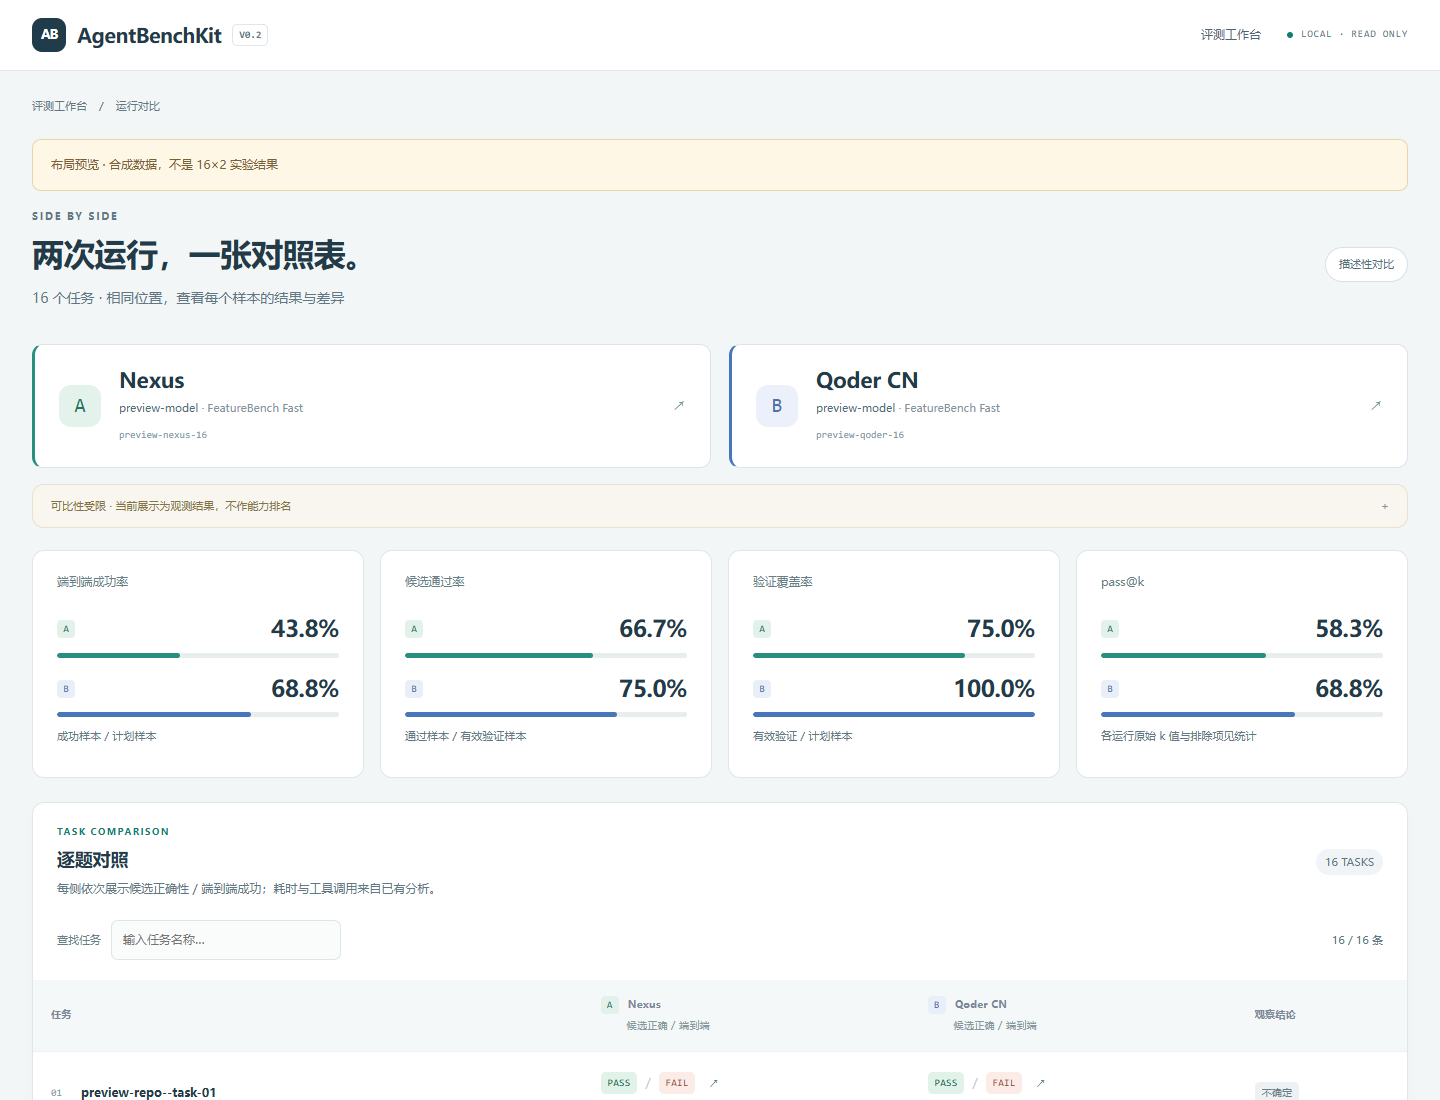
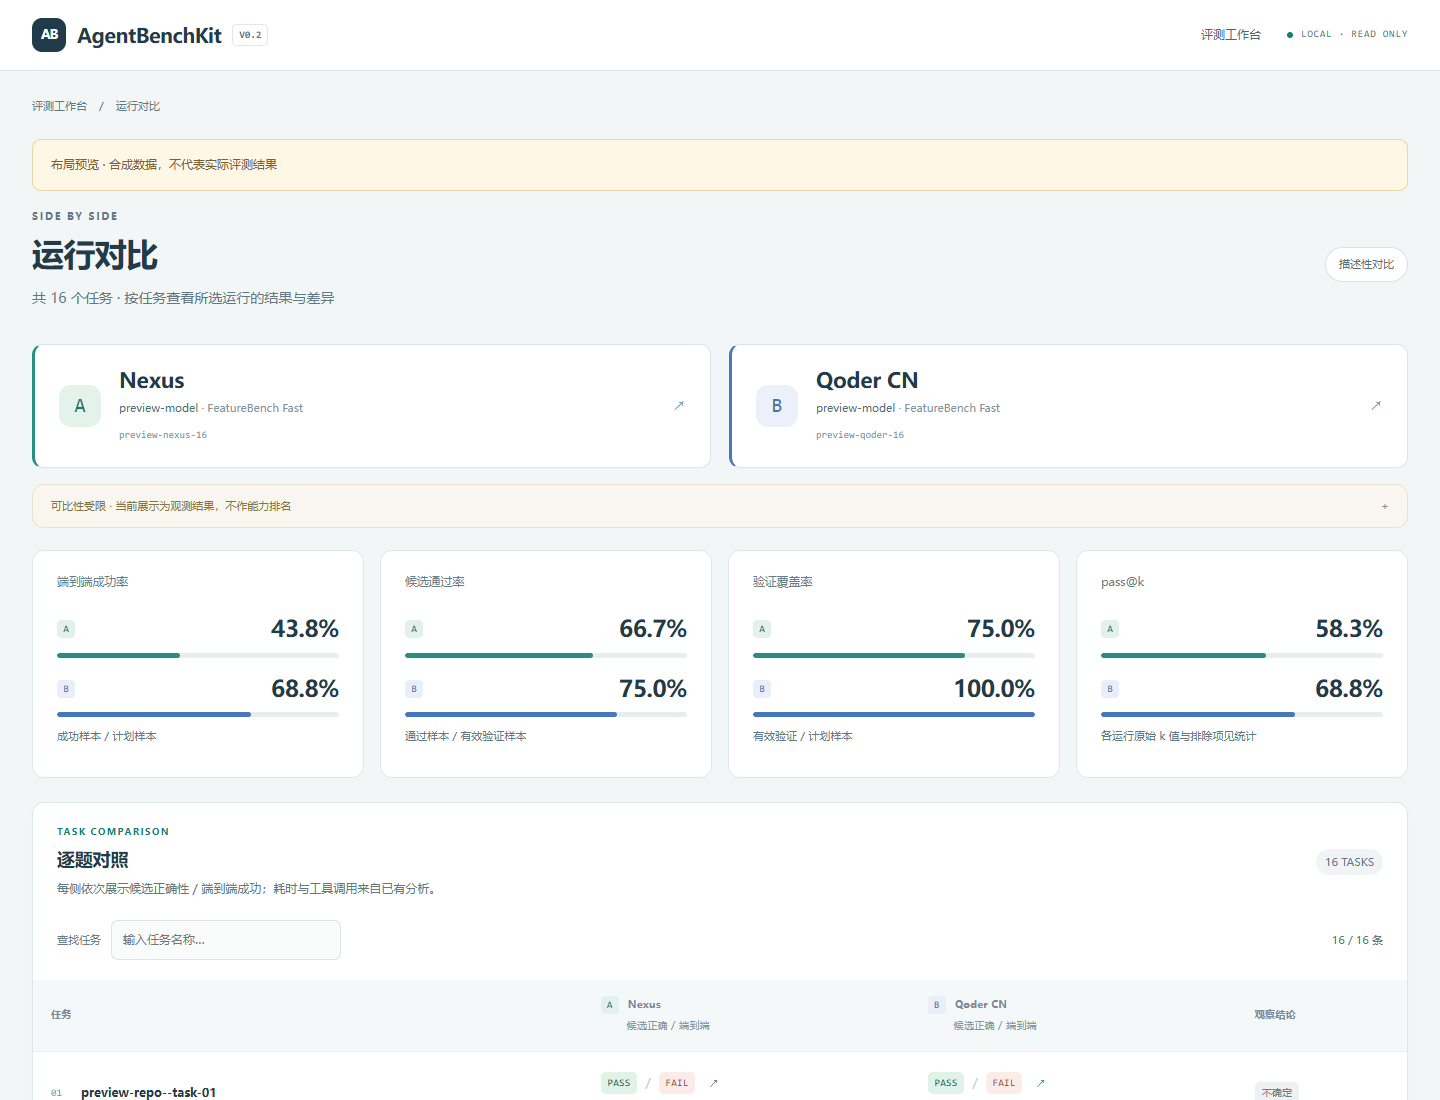
fix(viewer): clarify independent runs and optional comparison

Changed region(s): [[0.0, 0.2164, 0.25, 0.2782], [0.125, 0.1236, 0.1875, 0.1545]]

diff --git a/src/agentbenchkit/viewer/templates/runs.html b/src/agentbenchkit/viewer/templates/runs.html
@@ -2,6 +2,6 @@
 {% from "_components.html" import rate, benchmark %}
 {% block content %}
 <section class="heading workspace-hero"><div><p class="eyebrow">EVALUATION WORKSPACE</p><h1>评测工作台</h1><p>汇集每次运行，查看结果、比较 Agent、追溯执行证据。</p></div><div class="workspace-summary"><strong>{{ runs | length }}</strong>RECENT RUNS</div></section>
-<section class="panel" id="run-list"><div class="panel-heading"><div><p class="eyebrow">RUN LIBRARY</p><h2>最近运行</h2><p>进入任一运行，即可查看该次全部任务。最多展示最近 200 条记录。</p></div><button hx-get="/" hx-select="#run-list" hx-target="#run-list" hx-swap="outerHTML">刷新列表</button></div><div class="table-wrap"><table><thead><tr><th>Agent / Benchmark</th><th>运行 / 模型</th><th>端到端成功</th><th>验证覆盖</th><th></th></tr></thead><tbody>{% for run in runs %}<tr><td><a class="task-link" href="/runs/{{ run.id }}">{{ run.manifest.harness.name }}</a>{% if run.manifest.get('preview_notice') %}<span class="preview-tag">合成预览</span>{% endif %}<small>{{ benchmark(run.manifest.get('benchmark', 'micro_swe')) }} · {{ run.manifest.environment.provider }}</small></td><td><a href="/runs/{{ run.id }}">{{ run.id }}</a><small>{{ (run.manifest.get('model') or {}).get('model_id', '模型 N/A') }} · {{ run.manifest.created_at }}</small></td><td>{{ rate(run.summary.get('end_to_end_success_rate')) }}<small>{{ run.summary.get('samples_successful','N/A') }} / {{ run.summary.get('samples_planned','N/A') }} 样本</small></td><td>{{ rate(run.summary.get('coverage_rate')) }}<small>{{ run.summary.get('samples_with_valid_verdict','N/A') }} / {{ run.summary.get('samples_planned','N/A') }} 有效验证</small></td><td><a class="detail-link" href="/runs/{{ run.id }}">查看报告 ↗</a></td></tr>{% else %}<tr><td colspan="5" class="muted">还没有评测运行。使用 agent-bench run 创建第一份报告。</td></tr>{% endfor %}</tbody></table></div></section>
-{% if runs %}<section class="card compare-launch"><p class="eyebrow">COMPARE RUNS</p><h2>并排比较两次运行</h2><p>指标总览与逐题结果在同一页面展示，自动保留可比性提示。</p><form action="/compare" class="compare-form"><label>A · 基线运行<select name="baseline">{% for run in runs %}<option value="{{ run.id }}">{{ run.manifest.harness.name }} · {{ run.id }}</option>{% endfor %}</select></label><label>B · 候选运行<select name="candidate">{% for run in runs %}<option value="{{ run.id }}" {% if loop.index == 2 %}selected{% endif %}>{{ run.manifest.harness.name }} · {{ run.id }}</option>{% endfor %}</select></label><button>打开对比 →</button></form></section>{% endif %}
+<section class="panel" id="run-list"><div class="panel-heading"><div><p class="eyebrow">RUN LIBRARY</p><h2>最近运行</h2><p>进入任一运行，即可查看该次全部任务。最多展示最近 200 条记录。</p></div><button hx-get="/" hx-select="main" hx-target="main" hx-swap="outerHTML">刷新列表</button></div><div class="table-wrap"><table><thead><tr><th>Agent / Benchmark</th><th>运行 / 模型</th><th>端到端成功</th><th>验证覆盖</th><th></th></tr></thead><tbody>{% for run in runs %}<tr><td><a class="task-link" href="/runs/{{ run.id }}">{{ run.manifest.harness.name }}</a>{% if run.manifest.get('preview_notice') %}<span class="preview-tag">合成预览</span>{% endif %}<small>{{ benchmark(run.manifest.get('benchmark', 'micro_swe')) }} · {{ run.manifest.environment.provider }}</small></td><td><a href="/runs/{{ run.id }}">{{ run.id }}</a><small>{{ (run.manifest.get('model') or {}).get('model_id', '模型 N/A') }} · {{ run.manifest.created_at }}</small></td><td>{{ rate(run.summary.get('end_to_end_success_rate')) }}<small>{{ run.summary.get('samples_successful','N/A') }} / {{ run.summary.get('samples_planned','N/A') }} 样本</small></td><td>{{ rate(run.summary.get('coverage_rate')) }}<small>{{ run.summary.get('samples_with_valid_verdict','N/A') }} / {{ run.summary.get('samples_planned','N/A') }} 有效验证</small></td><td><a class="detail-link" href="/runs/{{ run.id }}">查看报告 ↗</a></td></tr>{% else %}<tr><td colspan="5" class="muted">还没有评测运行。使用 agent-bench run 创建第一份报告。</td></tr>{% endfor %}</tbody></table></div></section>
+{% if runs | length >= 2 %}<section class="card compare-launch"><p class="eyebrow">COMPARE RUNS</p><h2>运行对比（可选）</h2><p>从已有记录中选择基线与候选，查看指标和逐题差异。每条运行记录都可以独立查看。</p><form action="/compare" class="compare-form"><label>A · 基线运行<select name="baseline">{% for run in runs %}<option value="{{ run.id }}">{{ run.manifest.harness.name }} · {{ run.id }}</option>{% endfor %}</select></label><label>B · 候选运行<select name="candidate">{% for run in runs %}<option value="{{ run.id }}" {% if loop.index == 2 %}selected{% endif %}>{{ run.manifest.harness.name }} · {{ run.id }}</option>{% endfor %}</select></label><button>打开对比 →</button></form></section>{% endif %}
 {% endblock %}

diff --git a/src/agentbenchkit/viewer/templates/compare.html b/src/agentbenchkit/viewer/templates/compare.html
@@ -3,7 +3,7 @@
 {% block content %}
 <nav class="breadcrumb"><a href="/">评测工作台</a><span>/</span><span>运行对比</span></nav>
 {% if baseline_manifest.get('preview_notice') or candidate_manifest.get('preview_notice') %}<div class="warning">{{ baseline_manifest.get('preview_notice') or candidate_manifest.get('preview_notice') }}</div>{% endif %}
-<div class="heading compare-heading"><div><p class="eyebrow">SIDE BY SIDE</p><h1>两次运行，一张对照表。</h1><p class="lead">{{ comparison.tasks | length }} 个任务 · 相同位置，查看每个样本的结果与差异</p></div><span class="comparison-tag">{{ '正式条件可比' if comparison.formal_comparable else '描述性对比' }}</span></div>
+<div class="heading compare-heading"><div><p class="eyebrow">SIDE BY SIDE</p><h1>运行对比</h1><p class="lead">共 {{ comparison.tasks | length }} 个任务 · 按任务查看所选运行的结果与差异</p></div><span class="comparison-tag">{{ '正式条件可比' if comparison.formal_comparable else '描述性对比' }}</span></div>
 <div class="agent-pair">{% for label, manifest, run_id, tone in [('A',baseline_manifest,comparison.baseline_run,'a'),('B',candidate_manifest,comparison.candidate_run,'b')] %}<a class="agent-card {{ tone }}" href="/runs/{{ run_id }}"><span class="agent-letter">{{ label }}</span><div><h2>{{ manifest.harness.name }}</h2><p>{{ (manifest.get('model') or {}).get('model_id', '模型 N/A') }} <span>· {{ benchmark(manifest.get('benchmark', 'micro_swe')) }}</span></p><code>{{ run_id }}</code></div><span class="agent-arrow">↗</span></a>{% endfor %}</div>
 {% if comparison.comparability_warnings %}<details class="comparison-caveat"><summary>可比性受限 · 当前展示为观测结果，不作能力排名</summary><p>{{ comparison.comparability_warnings | join('、') }}</p><p>正式条件可比：{{ comparison.formal_comparable }}。样本差异不能证明稳定能力差异。</p></details>{% else %}<div class="notice">运行条件检查通过；单次随机结果仍不等于稳定能力变化。</div>{% endif %}
 <section class="comparison-metrics">

diff --git a/tests/test_viewer_dashboard.py b/tests/test_viewer_dashboard.py
@@ -5,6 +5,7 @@ import re
 from pathlib import Path
 from typing import Any
 
+import pytest
 from fastapi.testclient import TestClient
 
 from agentbenchkit.core.metrics import summarize
@@ -12,15 +13,17 @@ from agentbenchkit.core.models import SampleResult
 from agentbenchkit.viewer.app import create_app
 
 
-def write_dashboard_fixture(root: Path, run_id: str, agent: str, offset: int = 0) -> Path:
+def write_dashboard_fixture(
+    root: Path, run_id: str, agent: str, offset: int = 0, task_count: int = 16
+) -> Path:
     directory = root / run_id
     directory.mkdir(parents=True, exist_ok=True)
     tasks = [
         {"task_id": f"preview-repo--task-{i:02}", "prompt": "Synthetic UI fixture"}
-        for i in range(1, 17)
+        for i in range(1, task_count + 1)
     ]
     manifest: dict[str, Any] = {
-        "preview_notice": "布局预览 · 合成数据，不是 16×2 实验结果",
+        "preview_notice": "布局预览 · 合成数据，不代表实际评测结果",
         "created_at": "2026-10-08T10:00:00Z",
         "benchmark": "featurebench-v1.1-fast",
         "harness": {"name": agent, "capabilities": {}},
@@ -70,23 +73,25 @@ def snapshot(root: Path) -> dict[str, bytes]:
     return {p.relative_to(root).as_posix(): p.read_bytes() for p in root.rglob("*") if p.is_file()}
 
 
-def test_dashboard_all_tasks_comparison_and_readonly(tmp_path: Path) -> None:
-    write_dashboard_fixture(tmp_path, "preview-a", "Nexus <script>")
-    write_dashboard_fixture(tmp_path, "preview-b", "Qoder CN", 1)
+@pytest.mark.parametrize("task_count", [1, 7, 16, 30])
+def test_dashboard_all_tasks_comparison_and_readonly(tmp_path: Path, task_count: int) -> None:
+    write_dashboard_fixture(tmp_path, "preview-a", "Nexus <script>", task_count=task_count)
+    write_dashboard_fixture(tmp_path, "preview-b", "Qoder CN", 1, task_count=task_count)
     before = snapshot(tmp_path)
     with TestClient(create_app(tmp_path)) as client:
         overview = client.get("/runs/preview-a")
         comparison = client.get("/compare?baseline=preview-a&candidate=preview-b")
         assert overview.status_code == comparison.status_code == 200
-        assert overview.text.count("data-result-row") == 16
-        assert comparison.text.count("data-result-row") == 16
-        assert overview.text.count('class="task-tile"') == 16
+        assert overview.text.count("data-result-row") == task_count
+        assert comparison.text.count("data-result-row") == task_count
+        assert f"共 {task_count} 个任务" in comparison.text
+        assert overview.text.count('class="task-tile"') == task_count
         assert 'data-filter="unknown"' in overview.text
         assert 'src="/static/viewer.js"' in overview.text
         assert client.get("/static/viewer.js").status_code == 200
         assert "Nexus &lt;script&gt;" in comparison.text
         assert "Nexus <script>" not in comparison.text
-        for i in range(1, 17):
+        for i in range(1, task_count + 1):
             assert f"preview-repo--task-{i:02}" in overview.text
             assert f"preview-repo--task-{i:02}" in comparison.text
         # Preserve the independent dimensions instead of collapsing them into one verdict.
@@ -129,3 +134,24 @@ def test_dashboard_missing_results_and_planned_only_samples(tmp_path: Path) -> N
         assert 'href="/runs/preview-a/samples/' not in compare.text
         assert 'class="badge UNKNOWN">N/A' in compare.text
     assert snapshot(tmp_path) == before
+
+
+def test_workspace_runs_are_independent_and_comparison_optional(tmp_path: Path) -> None:
+    with TestClient(create_app(tmp_path)) as client:
+        empty = client.get("/")
+        assert empty.status_code == 200
+        assert 'action="/compare"' not in empty.text
+        write_dashboard_fixture(tmp_path, "only-run", "Custom Agent", task_count=2)
+        single = client.get("/")
+        assert 'href="/runs/only-run"' in single.text
+        assert 'action="/compare"' not in single.text
+        assert client.get("/runs/only-run").text.count("data-result-row") == 2
+        write_dashboard_fixture(tmp_path, "second-run", "Custom Agent", task_count=3)
+        write_dashboard_fixture(tmp_path, "third-run", "Another Agent", task_count=5)
+        before = snapshot(tmp_path)
+        library = client.get("/")
+        assert 'action="/compare"' in library.text
+        for run_id, count in [("only-run", 2), ("second-run", 3), ("third-run", 5)]:
+            assert f'href="/runs/{run_id}"' in library.text
+            assert client.get(f"/runs/{run_id}").text.count("data-result-row") == count
+        assert snapshot(tmp_path) == before

diff --git a/README.md b/README.md
@@ -32,7 +32,7 @@
 Agent 通过公开 CLI / SDK 执行，无需修改其源码。
 
 - **按需评测**：浏览任务目录，选择单题或任务集，配置模型、预算与执行环境。
-- **集中看结果**：汇总任务状态、候选正确性和端到端成功率，比较两次运行。
+- **集中看结果**：按运行汇总任务状态、候选正确性和端到端成功率，按需对比结果。
 - **追溯每次执行**：保留轨迹、冻结候选、独立验证报告和分析记录。
 - **扩展自己的 Agent**：通过 Harness 适配公开命令、配置与事件。
 
@@ -60,7 +60,9 @@ uv run agent-bench make-config aider-polyglot --all-tasks --output polyglot-plan
 ## 🖥 Web Viewer
 
 一个运行页集中显示全部任务：指标总览、任务状态矩阵、逐题结果，以及搜索和 PASS / FAIL / N/A 筛选。
-选择两次运行，即可并排查看两侧指标与每道题的结果；需要定位原因时，再进入样本证据。
+任务数量取决于所选任务集，每次运行都生成独立报告，不要求固定题数或重复运行。
+工作台汇集运行记录；需要对比时，再任选两条记录查看指标与逐题差异。
+需要定位原因时，可进入样本证据页面。
 页面只读，保留正确性、端到端成功与可比性条件的区别。
 
 <table>
@@ -70,13 +72,13 @@ uv run agent-bench make-config aider-polyglot --all-tasks --output polyglot-plan
       <br><sub><b>评测运行总览</b><br>查看模型、环境、核心指标与任务结果</sub>
     </td>
     <td align="center" valign="top">
-      <a href="docs/assets/viewer-compare.png"><img src="docs/assets/viewer-compare.png" alt="双运行对比：指标、逐题结果与可比性提示" height="270"></a>
-      <br><sub><b>双 Agent 运行对比</b><br>在同一页面比较指标与逐题结果</sub>
+      <a href="docs/assets/viewer-compare.png"><img src="docs/assets/viewer-compare.png" alt="运行对比：指标、逐题结果与可比性提示" height="270"></a>
+      <br><sub><b>运行结果对比</b><br>在同一页面比较指标与逐题结果</sub>
     </td>
   </tr>
 </table>
 
-<p align="center"><sub>16 题布局演示 · 截图使用合成数据，不代表实际实验结果</sub></p>
+<p align="center"><sub>界面演示 · 截图使用合成数据，题数与 Agent 仅作示例</sub></p>
 
 <a id="architecture"></a>
 ## 🧭 架构总览

diff --git a/docs/implementation-status.md b/docs/implementation-status.md
@@ -561,3 +561,19 @@ The cleanup is a single follow-up commit on `feature/V0.2.0-implementation`.
 Its Windows/Ubuntu checks are recorded with that commit in
 [branch CI](https://github.com/K529529/AgentBenchKit/actions/workflows/ci.yml?query=branch%3Afeature%2FV0.2.0-implementation).
 The preceding hardening commit and its completed CI are linked above.
+
+### Viewer general-use clarification
+
+The personal 16 x 2 experiment is not a product requirement. Task counts were
+already data-driven; each run remains independently viewable. Following user
+feedback, the comparison heading is now simply “运行对比”, README describes arbitrary
+selected task counts and independent runs, and the optional pairwise comparison
+form appears only when at least two records exist. Refresh updates the complete
+workspace, including its run count and optional comparison form. The existing
+pairwise Compare engine is unchanged; this does not add multi-run aggregation.
+
+PASS: Ruff, Windows/Linux strict mypy, **241 passed / 16 opt-in skipped**.
+Viewer regression now covers 1/7/16/30 tasks plus zero, single and multiple run
+records. README screenshots use the updated generic wording and synthetic data.
+All 171 historical evidence files remain byte-identical. No execution, correctness,
+metrics, model calls or official benchmark semantics changed.
